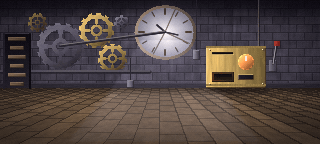
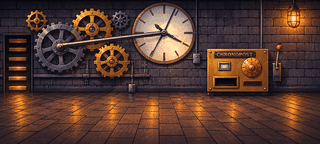
Uhrwerk 1986: Hintergrund des Nutzers, eigene Klickflächen, gemalte Zahnräder

diff --git a/src/game/rooms/uhrwerk.ts b/src/game/rooms/uhrwerk.ts
@@ -158,19 +158,60 @@ async function vielleichtAnkunft(g: ScriptApi): Promise<void> {
   });
 }
 
+/** 1986 hat ein eigenes Bild: Zahnräder, Uhr und Chronopost liegen anders als 1955 und 1885. */
 const hotspots1986: readonly Hotspot[] = [
-  zahnraeder('say.k1.zahnrad_schau'),
-  zifferblatt('say.k1.zifferblatt'),
+  {
+    id: 'rohr_links',
+    name: 'hotspot.rohre',
+    area: rect(194, 0, 5, 52),
+    walkTo: [196, 96],
+    face: 'hinten',
+    comments: { schauan: 'say.k1.uhr_rohr' },
+  },
+  {
+    id: 'rohr_rechts',
+    name: 'hotspot.rohre',
+    area: rect(259, 0, 5, 47),
+    walkTo: [261, 96],
+    face: 'hinten',
+    comments: { schauan: 'say.k1.uhr_rohr' },
+  },
+  {
+    id: 'wandlampe',
+    name: 'hotspot.wandlampe',
+    area: rect(282, 4, 18, 25),
+    walkTo: [291, 96],
+    face: 'hinten',
+    comments: { schauan: 'say.k1.uhr_lampe' },
+  },
+  {
+    id: 'gewicht',
+    name: 'hotspot.gewicht',
+    area: rect(128, 80, 8, 14),
+    walkTo: [132, 98],
+    face: 'hinten',
+    comments: { schauan: 'say.k1.uhr_gewicht' },
+  },
+  {
+    id: 'schaltkasten',
+    name: 'hotspot.schaltkasten',
+    area: rect(192, 52, 10, 11),
+    walkTo: [197, 96],
+    face: 'hinten',
+    comments: { schauan: 'say.k1.uhr_schaltkasten' },
+  },
+  { ...zahnraeder('say.k1.zahnrad_schau'), area: rect(26, 8, 105, 71) },
+  { ...zifferblatt('say.k1.zifferblatt'), area: rect(133, 3, 63, 61) },
   {
     id: 'chronopost',
     name: 'hotspot.chronopost',
-    area: rect(206, 46, 60, 42),
+    area: rect(206, 47, 63, 46),
     walkTo: [236, 96],
     face: 'hinten',
     sprite: {
       key: 'backgrounds/sprites/chronopost_lampe.png',
-      x: 216,
-      y: 60,
+      x: 221,
+      y: 63,
       when: (s) => s.chronopost.mode !== 'aus',
     },
     verbs: {
@@ -191,15 +232,15 @@ const hotspots1986: readonly Hotspot[] = [
       sendeschluessel: schluesselEinsetzen,
     },
   },
-  empfangsfach('say.k3.fach_leer'),
+  { ...empfangsfach('say.k3.fach_leer'), area: rect(213, 75, 27, 13), walkTo: [226, 96] },
   {
     id: 'brief_2015',
     name: 'item.brief_2015.name',
-    area: rect(212, 70, 22, 12),
+    area: rect(213, 75, 27, 13),
     walkTo: [224, 96],
     face: 'hinten',
     visible: (s) => !!s.flags.schluessel_eingesetzt && !s.flags.brief_2015_genommen,
-    sprite: { key: 'backgrounds/sprites/brief_fach.png', x: 216, y: 74 },
+    sprite: { key: 'backgrounds/sprites/brief_fach.png', x: 219, y: 78 },
     comments: { schauan: 'say.k4.fach_blinkt' },
     verbs: {
       nimm: async (g) => {
@@ -214,8 +255,8 @@ const hotspots1986: readonly Hotspot[] = [
   {
     id: 'waehlrad',
     name: 'hotspot.waehlrad',
-    area: rect(238, 54, 16, 16),
-    walkTo: [246, 96],
+    area: rect(241, 57, 21, 20),
+    walkTo: [251, 96],
     face: 'hinten',
     defaultVerb: 'druecke',
     comments: { schauan: 'say.k1.waehlrad' },
@@ -224,11 +265,11 @@ const hotspots1986: readonly Hotspot[] = [
   {
     id: 'fusion_im_kasten',
     name: 'item.mr_fusion.name',
-    area: rect(214, 28, 16, 18),
+    area: rect(214, 32, 16, 17),
     walkTo: [222, 96],
     face: 'hinten',
     visible: (s) => !!s.flags.fusion_eingebaut,
-    sprite: { key: 'backgrounds/sprites/mr_fusion.png', x: 216, y: 30 },
+    sprite: { key: 'backgrounds/sprites/mr_fusion.png', x: 216, y: 32 },
     comments: { schauan: 'say.k1.fusion_schau', nimm: 'say.k1.fusion_bleibt' },
     verbs: {
       ziehe: async (g) => {
@@ -247,8 +288,8 @@ const hotspots1986: readonly Hotspot[] = [
   {
     id: 'sendehebel',
     name: 'hotspot.sendehebel',
-    area: rect(267, 42, 14, 30),
-    walkTo: [272, 96],
+    area: rect(271, 43, 13, 39),
+    walkTo: [277, 96],
     face: 'hinten',
     defaultVerb: 'ziehe',
     comments: { schauan: 'say.k1.hebel_schau' },
@@ -264,7 +305,7 @@ const hotspots1986: readonly Hotspot[] = [
   {
     id: 'treppe',
     name: 'hotspot.treppe_runter',
-    area: rect(4, 34, 26, 54),
+    area: rect(3, 33, 29, 60),
     walkTo: [18, 96],
     face: 'links',
     exit: { room: 'turmeingang', at: [278, 100], face: 'links' },

diff --git a/src/game/rooms/leben.ts b/src/game/rooms/leben.ts
@@ -21,7 +21,7 @@ function zahnrad(name: string, cx: number, cy: number, r: number, fps: number): 
   return { type: 'strip', key: fx(name), frameWidth: size, frameHeight: size, x: Math.round(cx - size / 2), y: Math.round(cy - size / 2), fps };
 }
 
-/** Die Zahnräder sind in allen Fassungen des Uhrwerks am selben Platz. */
+/** Die drehenden Zahnräder des Uhrwerks von 1955 (1986 sind sie ins Bild gemalt). */
 const UHRWERK_RAEDER: readonly RoomEffect[] = [
   zahnrad('zahn_grau22', 58.5, 46, 22, 5),
   zahnrad('zahn_gold17', 96.5, 30, 17, 7),
@@ -203,7 +203,8 @@ const LEBEN: Record<string, Leben> = {
     ],
   },
   turmeingang_1986: { floor: 'stein', ambience: 'amb_schule' },
-  uhrwerk_1986: { floor: 'holz', ambience: 'amb_uhrwerk', effects: UHRWERK_RAEDER },
+  // Die Zahnräder sind 1986 ins Bild gemalt und stehen still; nur die Lampe glimmt.
+  uhrwerk_1986: { floor: 'holz', ambience: 'amb_uhrwerk', effects: [lampe(291, 17, 14, 0xffc070, 0.3, 0.3)] },
   schule_flur_1986: { floor: 'stein', ambience: 'amb_schule', fidget: { strickland: ['blick', 'talk'] } },
   bandraum_1986: { floor: 'holz', ambience: 'amb_schule' },
   schuelerzeitung_1986: { floor: 'teppich', ambience: 'amb_schule', fidget: { jennifer: ['pickup', 'blick'] } },

diff --git a/tools/paint/build.ts b/tools/paint/build.ts
@@ -107,7 +107,7 @@ const UI: Record<string, () => Picture> = {
 };
 
 /** Vom Nutzer gezeichnete Bilder: Sie werden nie übermalt, auch nicht mit --force oder Namensfilter. */
-const EIGENE_BILDER = new Set(['titel', 'martys_zimmer_1986', 'kueche_1986', 'arbeitszimmer_1986', 'vorgarten_1986', 'vorgarten_1986_tannenburg', 'veranda_1986', 'docs_labor_1986', 'stadtplan_1986', 'stadtplan_1986_tannenburg', 'rathausplatz_1986', 'rathausplatz_1986_tannenburg', 'turmeingang_1986']);
+const EIGENE_BILDER = new Set(['titel', 'martys_zimmer_1986', 'kueche_1986', 'arbeitszimmer_1986', 'vorgarten_1986', 'vorgarten_1986_tannenburg', 'veranda_1986', 'docs_labor_1986', 'stadtplan_1986', 'stadtplan_1986_tannenburg', 'rathausplatz_1986', 'rathausplatz_1986_tannenburg', 'turmeingang_1986', 'uhrwerk_1986']);
 
 const args = process.argv.slice(2);
 const force = args.includes('--force');
